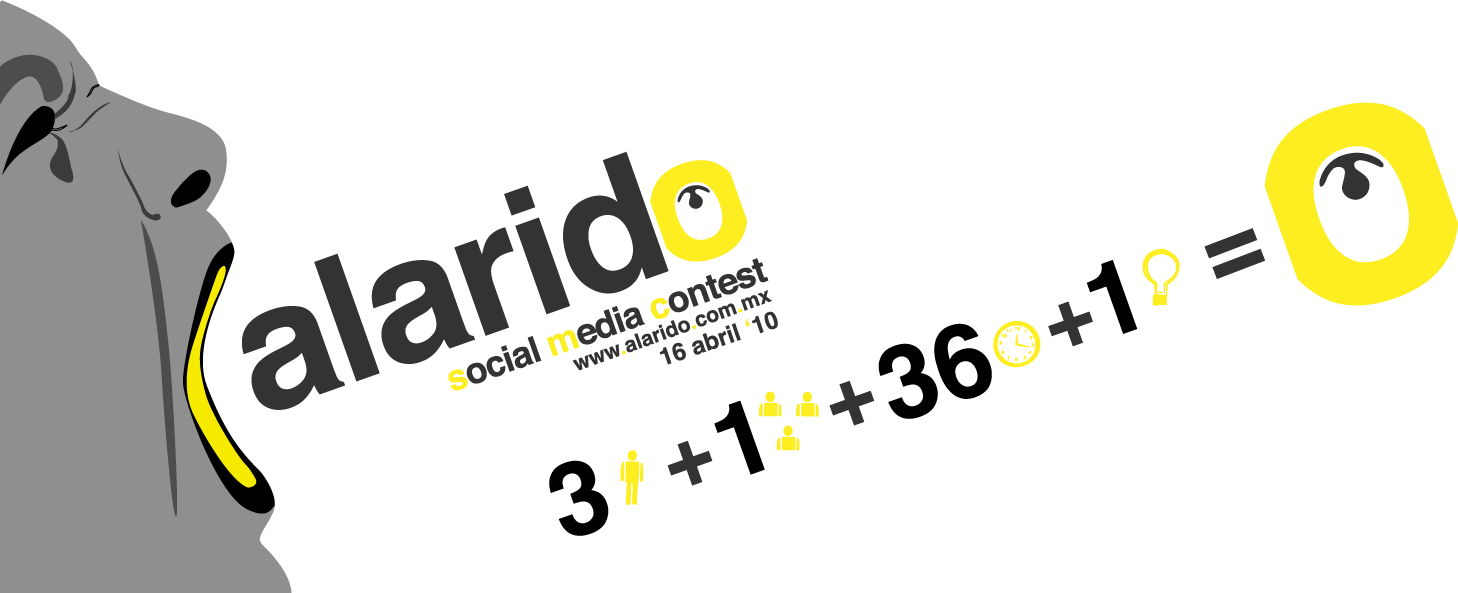
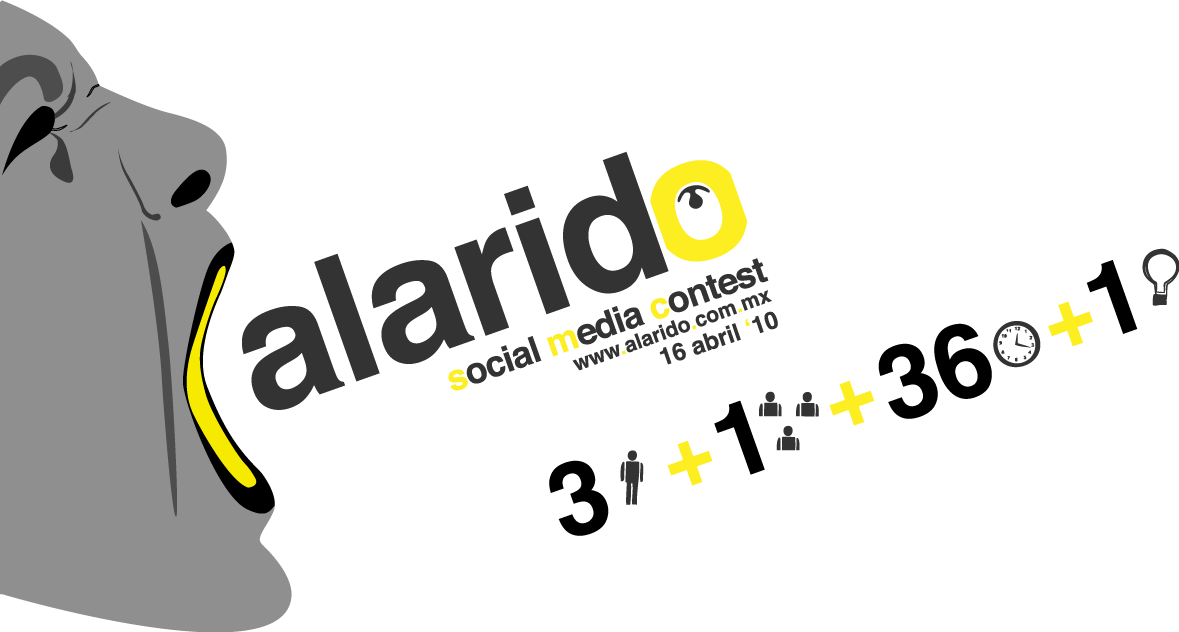
Cambiado a imagen con cara completa

Changed region(s): [[0.0, 0.0304, 1.0, 1.0], [0.0, 0.941, 0.1527, 1.0], [0.0, 0.0, 0.0305, 0.0304]]

diff --git a/index.html b/index.html
@@ -18,7 +18,7 @@
     <div id="content">
 	
 	    <div id="info0" >
-            <img src="img/F45082923.png"width="1458px" height="593px" style="margin-top:60px; margin-left:190px;"/>
+            <img src="img/F45082923.png"width="1179px" height="632px" style="margin-top:60px; margin-left:190px;"/>
         </div>
         
         <div id="info1" >

diff --git a/estilos.css b/estilos.css
@@ -60,7 +60,7 @@ height:100%;
 margin-left:22px;
 position:relative;
 top:0px;
-width:5400px;
+width:5150px;
 z-index:1;
 }
 
@@ -68,7 +68,7 @@ z-index:1;
     position: relative;
     float:left;
     overflow:hidden;  
-    width:1670px;
+    width:1400px;
 
 }
 #info1{
